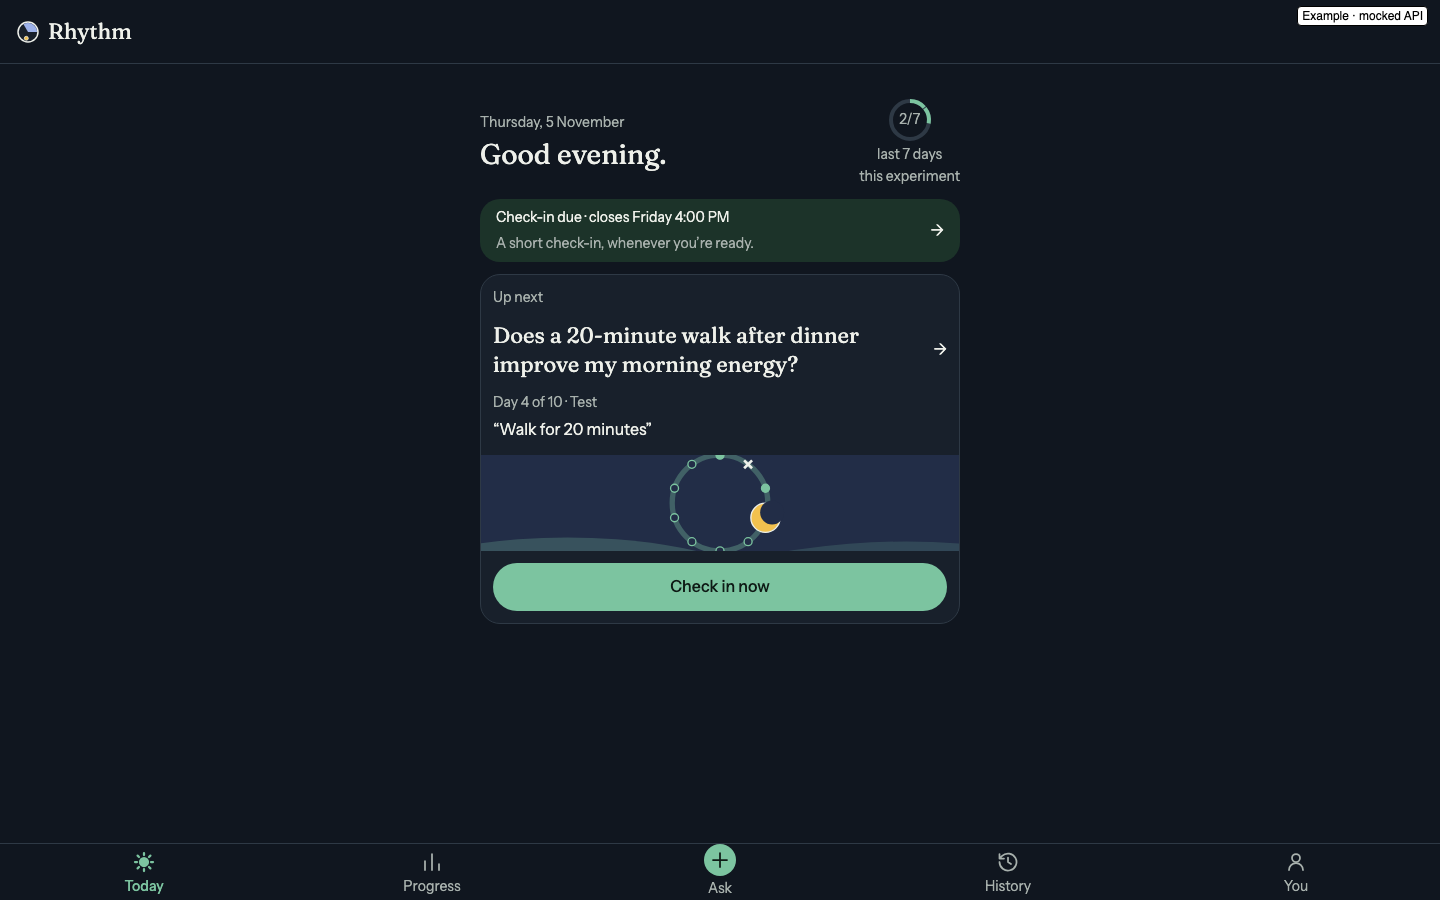
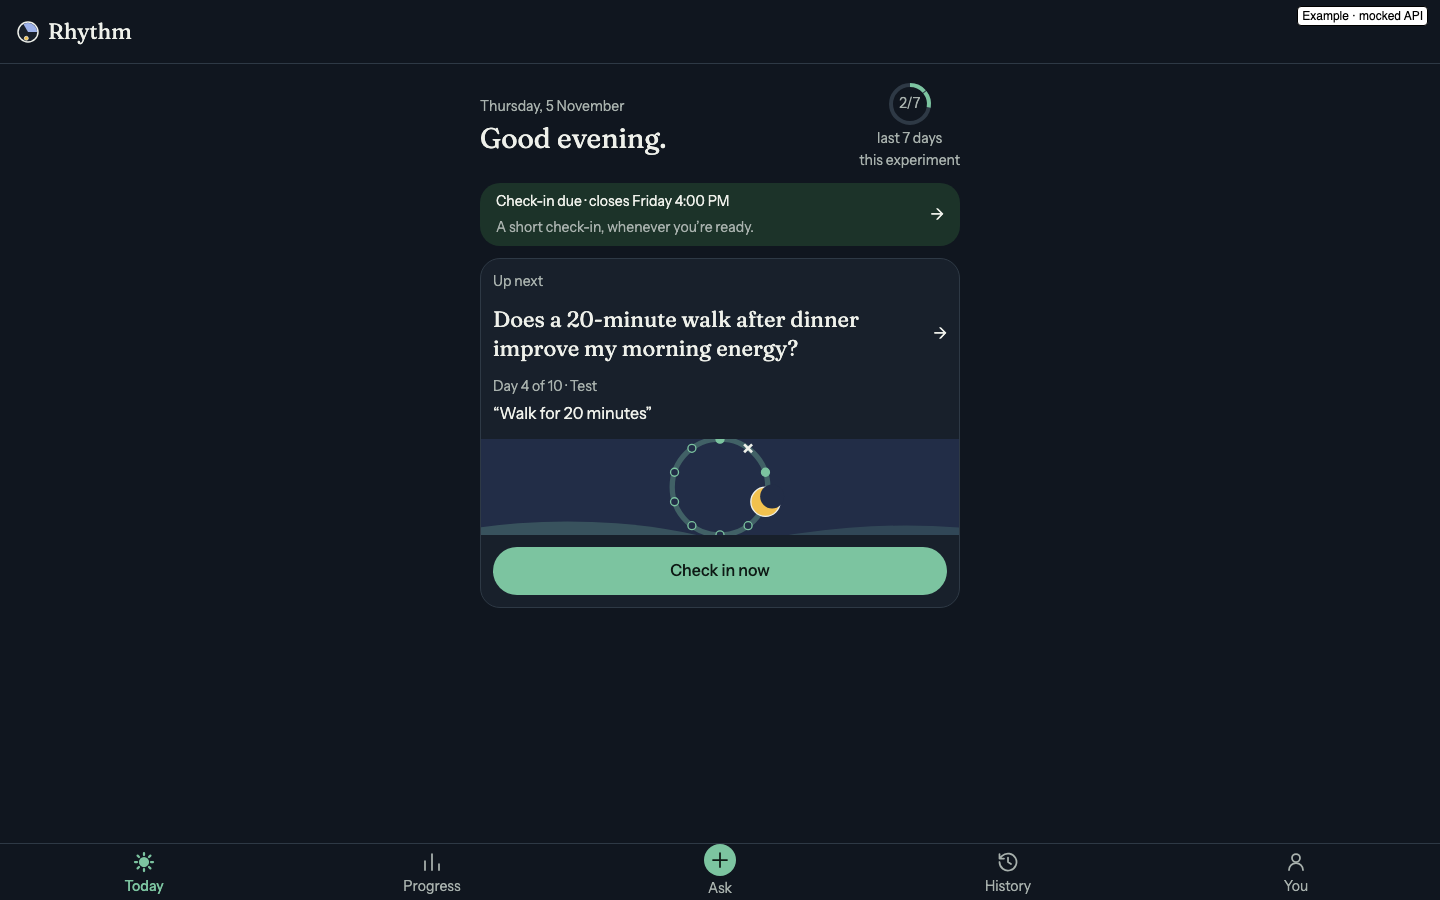
fix(mobile): keep every today state within the safe area

Changed region(s): [[0.3125, 0.0933, 0.6875, 0.6844]]

diff --git a/apps/mobile/src/today-dashboard.tsx b/apps/mobile/src/today-dashboard.tsx
@@ -22,7 +22,7 @@ export function weeklyCount({ timeline }: DayData) {
   if (current === null || timeline.progress.state !== 'in_progress') return null;
   return timeline.days.filter(day => day.day_number <= current && day.day_number > current - 7 && day.state === 'recorded').length;
 }
-const closesAt = (entry: DayData) => entry.timeline.next_day_at ?? entry.timeline.progress.ends_at;
+const closesAt = ({ timeline }: DayData) => timeline.next_day_at ?? (timeline.progress.day_number === timeline.progress.total_days ? timeline.progress.ends_at : null);
 const deadline = (entry: DayData) => { const close = closesAt(entry); return close ? Date.parse(close) : Number.POSITIVE_INFINITY; };
 const recorded = ({ timeline }: DayData) => timeline.days.some(day => day.day_number === timeline.progress.day_number && day.state === 'recorded');
 function priority(entry: DayData) {
@@ -115,7 +115,7 @@ export function TodayDashboard({ entries, disabled, onCheckin, onDetail, onResul
   </View>;
 }
 const useLocal = themedStyles(colors => StyleSheet.create({
-  page: { gap: SPACING.sm + SPACING.xs, marginTop: -SPACING.sm }, header: { flexDirection: 'row', alignItems: 'center', gap: SPACING.sm }, greeting: { flex: 1, gap: SPACING.xs },
+  page: { gap: SPACING.sm + SPACING.xs, marginTop: -SPACING.lg }, header: { flexDirection: 'row', alignItems: 'center', gap: SPACING.sm }, greeting: { flex: 1, gap: SPACING.xs },
   caption: { ...NATIVE_TYPOGRAPHY.caption, color: colors.muted }, week: { alignItems: 'center' }, ring: { width: 48, height: 48 }, ringLabel: { ...StyleSheet.absoluteFill, alignItems: 'center', justifyContent: 'center' },
   due: { backgroundColor: colors['moss-tint'], borderRadius: RADII.card, paddingHorizontal: SPACING.md }, dueTitle: { ...NATIVE_TYPOGRAPHY.caption, color: colors.text },
   link: { minHeight: LAYOUT.primaryAction, flexDirection: 'row', alignItems: 'center', gap: SPACING.sm, paddingVertical: SPACING.sm },

diff --git a/docs/screenshots/mobile-calm-today/README.md b/docs/screenshots/mobile-calm-today/README.md
@@ -12,6 +12,8 @@ Captured 5 November 2026 at 390×844, with every external request intercepted. A
 
 [Reduced usable height and Reduce Motion](due-safe-area-reduced-motion.png) uses 390×763, reserving the equivalent of 81pt for an iPhone's top and bottom safe areas. Single-experiment and empty states have no scroll overflow at standard text size. [Large text](due-large-text-reduced-motion.png) doubles body text sizes and line heights (keeping the existing 1.3× native tab-label cap), checks horizontal overflow and scrolls the primary action into view. Large text can scroll vertically; it stays usable rather than shrinking text. This approximates layout in a browser, not native Dynamic Type.
 
+[Baseline opening today](baseline-light.png) and [baseline opening tomorrow](baseline-tomorrow-light.png) also fit at 390×763. The label uses the returned opening, rather than assuming calendar midnight.
+
 [Desktop light](due-desktop-light.png) and [desktop dark](due-desktop-dark.png) check 1440×900. Motion frames: [entrance](due-enter.png), [during](due-during.png), [settled](due-light.png), and [pressed](due-pressed.png).
 
 The capture script also opens Check-in, edit, experiment detail, another running experiment, Ask and the free completion → Lab Report flow. All calls stay mocked. Reduced Motion is checked while holding the primary action: its width must stay unchanged. Normal press feedback, haptics, native SVG, VoiceOver and OS text scaling still need the iPhone checklist in the PR.

diff --git a/.claude-logs/2026-11-05_11-14-08_01a1aa20-d131-7fa0-ba81-eb5c14d44ac5.md b/.claude-logs/2026-11-05_11-14-08_01a1aa20-d131-7fa0-ba81-eb5c14d44ac5.md
@@ -9,7 +9,7 @@ agent: codex
 session_status: complete
 last_entry_type: assistant
 total_exchanges: 1
-generated_at: 2026-11-05T11:56:39.590328
+generated_at: 2026-11-05T11:58:33.975559
 first_prompt_time: 2026-11-05T05:14:08.637Z
 last_prompt_time: 2026-11-05T05:14:08.637Z
 session_duration_minutes: 0.0
